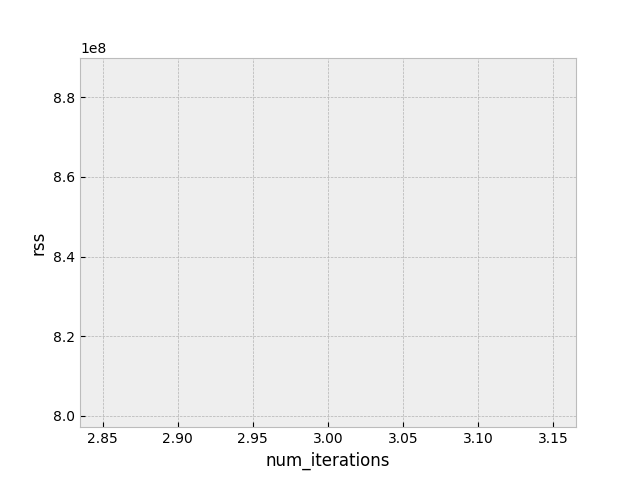
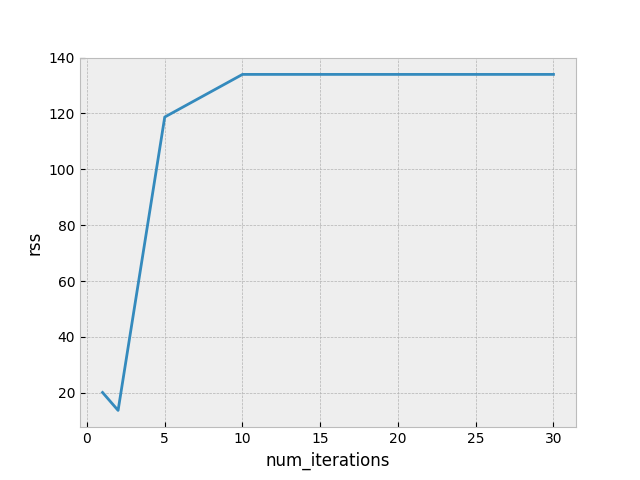
finished bonus question

diff --git a/nn/bp/bp_neural_network.py b/nn/bp/bp_neural_network.py
@@ -21,10 +21,10 @@ class NeuralNetwork():
         
         self.bias_nodes = bias_nodes
         self.num_nodes = max(elem for pair in pairs for elem in pair)
-        self.node_list = {index : Node(index, index in self.bias_nodes) for index in range(1, self.num_nodes + 1)}
+        self.nodes = {index : Node(index, index in self.bias_nodes) for index in range(1, self.num_nodes + 1)}
 
-        self.pairs = [(self.node_list[a], self.node_list[b]) for a, b in pairs]
-        self.initial_weights = {(self.node_list[pair[0]], self.node_list[pair[1]]) : weights[pair] for pair in pairs}
+        self.pairs = [(self.nodes[a], self.nodes[b]) for a, b in pairs]
+        self.initial_weights = {(self.nodes[pair[0]], self.nodes[pair[1]]) : weights[pair] for pair in pairs}
 
         self.rows = self.get_rows()
 
@@ -40,48 +40,10 @@ class NeuralNetwork():
         self.f = f
         self.f_prime = f_prime
 
-        for node in self.node_list.values():
+        for node in self.nodes.values():
             node.inputs  = {point:0 for point in self.data}
             node.outputs = {point:0 for point in self.data}
             node.dRSS_dn = {point:0 for point in self.data}
-
-    def run_gradient_descent(self, num_iterations_list, alpha=0.001):
-
-        # rss_list = [self.calc_rss(self.gradient_descent(copy_dict(self.initial_weights), n, alpha)) for n in num_iterations_list]
-
-        rss_list = []
-        for n in num_iterations_list:
-            weights = copy_dict(self.initial_weights)
-            gradient_desc = self.gradient_descent(weights, n, alpha)
-            rss = self.calc_rss(gradient_desc)
-            rss_list.append(rss)
-
-        # plot 1
-
-        plt.figure(0)
-        plt.plot(num_iterations_list, rss_list)
-        plt.xlabel('num_iterations')
-        plt.ylabel('rss')
-        plt.savefig('bp_num_iterations_vs_rss.png')
-
-        # plot 2
-
-        # plt.figure(2)
-        # plt.scatter([point[0] for point in self.data], [point[1] for point in self.data], label='data')
-
-        # x_list = list(range(self.num_nodes + 1))
-
-        # initial_y_list = [self.predict(self.initial_weights, x) for x in x_list]
-        # plt.plot(x_list, initial_y_list, label='initial regressor')
-
-        # final_weights = self.gradient_descent(self.initial_weights, 1000, alpha)
-        # final_y_list = [self.predict(final_weights, x) for x in x_list]
-        # plt.plot(x_list, final_y_list, label='final regressor')
-
-        # plt.legend()
-        # plt.savefig('bp_data_vs_initial_regressor_vs_final_regressor.png')
-
-        print('done')
 
     def row_of(self, node, rows):
         for x, row in enumerate(rows):
@@ -90,7 +52,7 @@ class NeuralNetwork():
 
     def get_rows(self):
 
-        rows = [[self.node_list[1]]]
+        rows = [[self.nodes[1]]]
 
         for a, b in self.pairs:
 
@@ -110,35 +72,37 @@ class NeuralNetwork():
 
         return rows
 
+    def get_node_weight(self, a, b, weights):
+        return weights[(self.nodes[a], self.nodes[b])]
+
     def calc_inputs(self):
         
         for point in self.data:
             
-            for node in self.node_list.values():
+            for node in self.nodes.values():
 
-                if node.is_bias:
-                    node_input = 1
-                elif node in self.rows[0]:
-                    node_input = point[0]
-                else:
-                    node_input = sum(self.initial_weights[(a, b)] * a.outputs[point] for a, b in self.pairs if b == node)
+                if node.is_bias:            node_input = 1
+                elif node in self.rows[0]:  node_input = point[0]
+                else:                       node_input = sum(self.initial_weights[(a, b)] * a.outputs[point] for a, b in self.pairs if b == node)
 
                 node.inputs[point] = node_input
                 node.outputs[point] = self.f(node_input)
 
-    def calc_dRSS_dn(self):
+    def calc_dRSS_dn(self, weights):
 
         for point in self.data:
-            self.node_list[6].dRSS_dn[point] = 2 * (self.node_list[6].outputs[point] - point[1])
+            self.nodes[6].dRSS_dn[point] = 2 * (self.nodes[6].outputs[point] - point[1])
 
         for point in self.data:
-            self.node_list[5].dRSS_dn[point] = self.node_list[6].dRSS_dn[point] * self.f_prime(self.node_list[6].inputs[point]) * self.initial_weights[(self.node_list[5], self.node_list[6])]
-            self.node_list[4].dRSS_dn[point] = self.node_list[6].dRSS_dn[point] * self.f_prime(self.node_list[6].inputs[point]) * self.initial_weights[(self.node_list[4], self.node_list[6])]
-            self.node_list[3].dRSS_dn[point] = self.node_list[6].dRSS_dn[point] * self.f_prime(self.node_list[6].inputs[point]) * self.initial_weights[(self.node_list[3], self.node_list[6])]
+            self.nodes[5].dRSS_dn[point] = self.nodes[6].dRSS_dn[point] * self.f_prime(self.nodes[6].inputs[point]) * self.get_node_weight(5, 6, weights)
+            self.nodes[4].dRSS_dn[point] = self.nodes[6].dRSS_dn[point] * self.f_prime(self.nodes[6].inputs[point]) * self.get_node_weight(4, 6, weights)
+            self.nodes[3].dRSS_dn[point] = self.nodes[6].dRSS_dn[point] * self.f_prime(self.nodes[6].inputs[point]) * self.get_node_weight(3, 6, weights)
 
         for point in self.data:
-            self.node_list[2].dRSS_dn[point] += self.node_list[3].dRSS_dn[point] * self.f_prime(self.node_list[3].inputs[point]) * self.initial_weights[(self.node_list[2], self.node_list[3])] + self.node_list[4].dRSS_dn[point] * self.f_prime(self.node_list[4].inputs[point]) * self.initial_weights[(self.node_list[2], self.node_list[4])]
-            self.node_list[1].dRSS_dn[point] += self.node_list[3].dRSS_dn[point] * self.f_prime(self.node_list[3].inputs[point]) * self.initial_weights[(self.node_list[1], self.node_list[3])] + self.node_list[4].dRSS_dn[point] * self.f_prime(self.node_list[4].inputs[point]) * self.initial_weights[(self.node_list[1], self.node_list[4])]
+            
+            self.nodes[2].dRSS_dn[point] = self.nodes[3].dRSS_dn[point] * self.f_prime(self.nodes[3].inputs[point]) * self.get_node_weight(2, 3, weights) + self.nodes[4].dRSS_dn[point] * self.f_prime(self.nodes[4].inputs[point]) * self.get_node_weight(2, 4, weights)
+
+            self.nodes[1].dRSS_dn[point] = self.nodes[3].dRSS_dn[point] * self.f_prime(self.nodes[3].inputs[point]) * self.get_node_weight(1, 3, weights) + self.nodes[4].dRSS_dn[point] * self.f_prime(self.nodes[4].inputs[point]) * self.get_node_weight(1, 4, weights)
 
     def calc_dRSS_dw(self):
         for a, b in self.pairs:
@@ -155,18 +119,18 @@ class NeuralNetwork():
 
         i = {}
 
-        output = lambda node_index: self.f(i[self.node_list[node_index].index])
+        output = lambda node_index: self.f(i[self.nodes[node_index].index])
 
         # print_dict(weights)
 
         i[1] = x
         i[2] = 1
-        i[3] = weights[(self.node_list[1], self.node_list[3])] * output(1) + weights[(self.node_list[2], self.node_list[3])] * output(2)
-        i[4] = weights[(self.node_list[1], self.node_list[4])] * output(1) + weights[(self.node_list[2], self.node_list[4])] * output(2)
+        i[3] = weights[(self.nodes[1], self.nodes[3])] * output(1) + weights[(self.nodes[2], self.nodes[3])] * output(2)
+        i[4] = weights[(self.nodes[1], self.nodes[4])] * output(1) + weights[(self.nodes[2], self.nodes[4])] * output(2)
         i[5] = 1
-        i[6] = weights[(self.node_list[3], self.node_list[6])] * output(3) + weights[(self.node_list[4], self.node_list[6])] * output(4) + 1
+        i[6] = weights[(self.nodes[3], self.nodes[6])] * output(3) + weights[(self.nodes[4], self.nodes[6])] * output(4) + 1
 
-        # for node in self.node_list.values():
+        # for node in self.nodes.values():
 
         #     if node.is_bias:
         #         i[node.index] = 1
@@ -179,5 +143,43 @@ class NeuralNetwork():
 
     def gradient_descent(self, weights, num_iterations, alpha):
         for _ in range(num_iterations):
+            self.calc_dRSS_dn(weights)
+            self.calc_dRSS_dw()
             weights = {pair:weight - alpha * self.dRSS_dw[pair] for pair, weight in weights.items()}
         return weights
+
+    def run_gradient_descent(self, num_iterations_list, alpha=0.001):
+
+        rss_list = []
+        for n in num_iterations_list:
+            weights = copy_dict(self.initial_weights)
+            gradient_desc = self.gradient_descent(weights, n, alpha)
+            rss = self.calc_rss(gradient_desc)
+            rss_list.append(rss)
+
+        # plot 1
+
+        plt.figure(1)
+        plt.plot(num_iterations_list, rss_list)
+        plt.xlabel('num_iterations')
+        plt.ylabel('rss')
+        plt.savefig('nn/bp/bp_num_iterations_vs_rss.png')
+
+        # plot 2
+
+        plt.figure(2)
+        plt.scatter([point[0] for point in self.data], [point[1] for point in self.data], label='data')
+
+        x_list = list(range(self.num_nodes + 1))
+
+        initial_y_list = [self.predict(self.initial_weights, x) for x in x_list]
+        plt.plot(x_list, initial_y_list, label='initial regressor')
+
+        final_weights = self.gradient_descent(self.initial_weights, 1000, alpha)
+        final_y_list = [self.predict(final_weights, x) for x in x_list]
+        plt.plot(x_list, final_y_list, label='final regressor')
+
+        plt.legend()
+        plt.savefig('nn/bp/bp_data_vs_initial_regressor_vs_final_regressor.png')
+
+        print('done')

diff --git a/nn/bp/test_bp_neural_network.py b/nn/bp/test_bp_neural_network.py
@@ -12,52 +12,11 @@ data = [(0, 5), (2, 3), (5, 10)]
 f = lambda x: max(0, x)
 f_prime = lambda x: 0 if x <= 0 else 1
 
-# num_iterations_list = [1, 2, 5, 10, 50, 100, 200, 500]
-num_iterations_list = [3]
+# num_iterations_list = [1, 2, 5, 10, 15, 20, 25, 30, 35, 40, 45, 50, 55, 60, 65, 70, 75, 80, 85, 90, 95, 100, 150, 200]
+num_iterations_list = [1, 2, 5, 10, 15, 20, 25, 30]
 alpha = 0.001
 
 nn = NeuralNetwork(pairs, initial_weights, bias_nodes)
 nn.fit(data, f, f_prime)
 nn.calc_inputs()
-nn.calc_dRSS_dn()
-nn.calc_dRSS_dw()
-
 nn.run_gradient_descent(num_iterations_list)
-
-# rss_list = [self.calc_rss(self.gradient_descent(self.copy_dict(self.initial_weights), n, alpha)) for n in num_iterations_list]
-
-# rss_list = []
-
-# for n in num_iterations_list:
-#     weights = copy_dict(self.initial_weights)
-#     print_dict(self.initial_weights)
-#     gradient_desc = self.gradient_descent(weights, n, alpha)
-#     rss = self.calc_rss(gradient_desc)
-#     rss_list.append(rss)
-
-# # plot 1
-
-# plt.figure(0)
-# plt.plot(num_iterations_list, rss_list)
-# plt.xlabel('num_iterations')
-# plt.ylabel('rss')
-# plt.savefig('bp_num_iterations_vs_rss.png')
-
-# plot 2
-
-# plt.figure(2)
-# plt.scatter([point[0] for point in self.data], [point[1] for point in self.data], label='data')
-
-# x_list = list(range(self.num_nodes + 1))
-
-# initial_y_list = [self.predict(self.initial_weights, x) for x in x_list]
-# plt.plot(x_list, initial_y_list, label='initial regressor')
-
-# final_weights = self.gradient_descent(self.initial_weights, 1000, alpha)
-# final_y_list = [self.predict(final_weights, x) for x in x_list]
-# plt.plot(x_list, final_y_list, label='final regressor')
-
-# plt.legend()
-# plt.savefig('bp_data_vs_initial_regressor_vs_final_regressor.png')
-
-# print('done')
